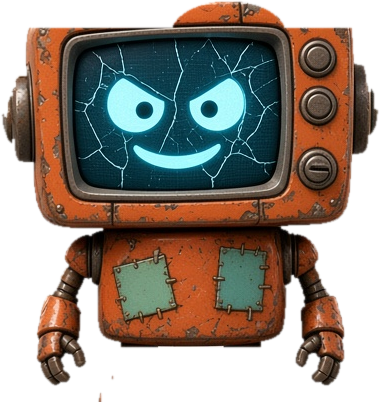
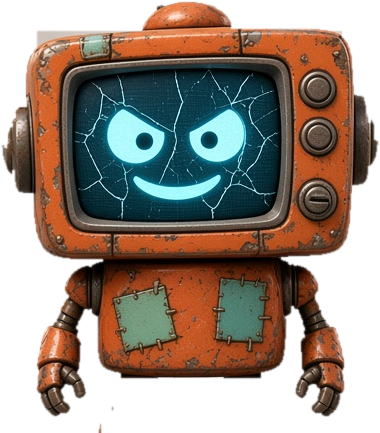
v12.5f: Jr. sprite full TV box (forehead+knob), antennas rooted on knob; classic yellow hard hat

diff --git a/js/art.js b/js/art.js
@@ -107,30 +107,36 @@ BB.pickbot=(x,base,h,swing,o={})=>{const sq=o.squash||0;
   ctx.restore();
   /* v12.5e: hard hat sits ON the bucket rim, covering the open lid; no added height */
   BB.sprite('sorter',x,base,h,{squash:sq,cut:(w,H)=>{ctx.beginPath();ctx.rect(-w*.6,-H*1.2,w*1.2,H*1.25);ctx.rect(w*.27,-H*.745,-w*.9,-H*.6);ctx.clip('evenodd')}});
-  /* hard hat: same ellipse as the rim (rim centre .562W, .26H from top; rx~.128h, ry~.018h) */
+  /* hard hat v12.5f: classic construction silhouette - rounded crown, raised centre ridge, front bill, narrow brim; glossy safety-yellow plastic, mint stripe, clip-on headlamp */
   {const W=h*273/420;ctx.save();ctx.translate(x+W*.062*(1+sq),base-h*(1-sq)*.74);ctx.scale(1+sq,1-sq);
-  const bw=h*.16,bry=h*.03,hr=h*.132,top=-h*.165,e=Math.max(1,h*.004);
-  /* contact shadow on the rim / body under the brim */
-  {const G=ctx.createRadialGradient(0,bry*.6,0,0,bry*.6,bw*1.05);G.addColorStop(0,'rgba(10,25,20,.55)');G.addColorStop(1,'rgba(10,25,20,0)');ctx.fillStyle=G;ctx.beginPath();ctx.ellipse(0,bry*.7,bw*1.05,bry*1.5,0,0,7);ctx.fill()}
-  /* brim: elliptical, darker underside lip */
-  ctx.beginPath();ctx.ellipse(0,bry*.25,bw,bry*1.05,0,0,7);ctx.fillStyle='#2f6b5c';ctx.fill();
-  ctx.beginPath();ctx.ellipse(0,0,bw,bry,0,0,7);{const G=ctx.createLinearGradient(-bw,0,bw,0);G.addColorStop(0,'#3f8a76');G.addColorStop(.35,'#bdeedd');G.addColorStop(.7,'#6fb9a2');G.addColorStop(1,'#2f6b5c');ctx.fillStyle=G}ctx.fill();ctx.strokeStyle='rgba(15,40,34,.8)';ctx.lineWidth=e;ctx.stroke();
-  /* dome shell: base follows the front half of the rim ellipse */
-  const dome=()=>{ctx.beginPath();ctx.moveTo(-hr,-h*.004);ctx.bezierCurveTo(-hr*1.02,top*.62,-hr*.62,top,0,top);ctx.bezierCurveTo(hr*.62,top,hr*1.02,top*.62,hr,-h*.004);ctx.ellipse(0,-h*.004,hr,bry*.75,0,0,Math.PI);ctx.closePath()};
-  dome();{const G=ctx.createRadialGradient(-hr*.35,top*.7,0,0,top*.35,hr*1.35);G.addColorStop(0,'#f4fffb');G.addColorStop(.28,'#a9e4d0');G.addColorStop(.7,'#5aa892');G.addColorStop(1,'#2a5f52');ctx.fillStyle=G}ctx.fill();
+  const bw=h*.152,bry=h*.026,hr=h*.128,top=-h*.165,e=Math.max(1,h*.004),ink='rgba(70,45,5,.85)';
+  const plast=(x0,y0,r)=>{const G=ctx.createRadialGradient(x0,y0,0,x0+r*.3,y0+r*.45,r*1.5);G.addColorStop(0,'#fffbe0');G.addColorStop(.22,'#ffe45a');G.addColorStop(.62,'#f2b80c');G.addColorStop(1,'#a86d00');return G};
+  /* contact shadow where the brim meets the rim */
+  {const G=ctx.createRadialGradient(0,bry*.7,0,0,bry*.7,bw*1.05);G.addColorStop(0,'rgba(10,25,20,.55)');G.addColorStop(1,'rgba(10,25,20,0)');ctx.fillStyle=G;ctx.beginPath();ctx.ellipse(0,bry*.8,bw*1.08,bry*1.6,0,0,7);ctx.fill()}
+  /* narrow brim all round + front bill (pushed toward the viewer) */
+  const brim=()=>{ctx.beginPath();ctx.ellipse(0,0,bw,bry,0,Math.PI,0);ctx.bezierCurveTo(bw,bry*1.2,bw*.6,bry*2.6,0,bry*2.7);ctx.bezierCurveTo(-bw*.6,bry*2.6,-bw,bry*1.2,-bw,0);ctx.closePath()};
+  ctx.save();ctx.translate(0,bry*.35);brim();ctx.fillStyle='#8a5a00';ctx.fill();ctx.restore();
+  brim();{const G=ctx.createLinearGradient(-bw,0,bw,0);G.addColorStop(0,'#c98d00');G.addColorStop(.33,'#fff1a0');G.addColorStop(.6,'#f6c51e');G.addColorStop(1,'#a06600');ctx.fillStyle=G}ctx.fill();ctx.strokeStyle=ink;ctx.lineWidth=e;ctx.stroke();
+  ctx.fillStyle='rgba(255,255,255,.55)';ctx.beginPath();ctx.ellipse(-bw*.25,bry*1.7,bw*.3,bry*.28,-.08,0,7);ctx.fill();
+  /* crown */
+  const dome=()=>{ctx.beginPath();ctx.moveTo(-hr,bry*.3);ctx.bezierCurveTo(-hr*1.03,top*.6,-hr*.6,top,0,top);ctx.bezierCurveTo(hr*.6,top,hr*1.03,top*.6,hr,bry*.3);ctx.ellipse(0,bry*.3,hr,bry*1.1,0,0,Math.PI);ctx.closePath()};
+  dome();ctx.fillStyle=plast(-hr*.4,top*.72,hr);ctx.fill();
   ctx.save();dome();ctx.clip();
-  ctx.fillStyle='rgba(255,255,255,.7)';ctx.beginPath();ctx.ellipse(-hr*.42,top*.66,hr*.2,-top*.09,-.6,0,7);ctx.fill();
-  ctx.strokeStyle='rgba(170,240,255,.55)';ctx.lineWidth=h*.008;ctx.beginPath();ctx.moveTo(hr*.97,-h*.01);ctx.bezierCurveTo(hr*.98,top*.6,hr*.6,top*.98,hr*.1,top*.99);ctx.stroke();
-  {const G=ctx.createLinearGradient(0,top*.25,0,bry);G.addColorStop(0,'rgba(0,0,0,0)');G.addColorStop(1,'rgba(10,30,25,.4)');ctx.fillStyle=G;ctx.fillRect(-hr,top*.25,hr*2,-top*.25+bry)}
-  /* side ribs following the dome curvature */
-  ctx.strokeStyle='rgba(20,60,50,.35)';ctx.lineWidth=h*.006;for(const k of[-.55,.55]){ctx.beginPath();ctx.moveTo(hr*k*1.05,bry*.5);ctx.quadraticCurveTo(hr*k*1.1,top*.8,hr*k*.35,top*.97);ctx.stroke()}
-  ctx.restore();dome();ctx.strokeStyle='rgba(15,40,34,.85)';ctx.lineWidth=e;ctx.stroke();
-  /* chrome centre ridge running front-to-back */
-  ctx.beginPath();ctx.moveTo(-hr*.1,bry*.55);ctx.quadraticCurveTo(-hr*.12,top*.95,0,top*1.03);ctx.quadraticCurveTo(hr*.12,top*.95,hr*.1,bry*.55);ctx.closePath();ctx.fillStyle=chromeX(-hr*.1,hr*.1);ctx.fill();ctx.strokeStyle='rgba(15,40,34,.8)';ctx.stroke();
-  for(const rx of[-hr*.62,hr*.62]){const r=Math.max(1.5,h*.009),cy=-h*.035,G=ctx.createRadialGradient(rx-r*.4,cy-r*.4,0,rx,cy,r);G.addColorStop(0,'#fff');G.addColorStop(.5,'#9aa5ad');G.addColorStop(1,'#2e3439');ctx.fillStyle=G;ctx.beginPath();ctx.arc(rx,cy,r,0,7);ctx.fill()}
-  /* lamp on the front-right */
-  {const lx=hr*.42,ly=top*.42,R=h*.027;BB.glow(lx,ly,h*.22,'rgba(255,240,170,A)',.25);ctx.fillStyle='rgba(0,0,0,.35)';ctx.beginPath();ctx.arc(lx+R*.15,ly+R*.2,R*1.05,0,7);ctx.fill();
-   ctx.fillStyle=chromeX(lx-R,lx+R);ctx.beginPath();ctx.arc(lx,ly,R,0,7);ctx.fill();ctx.strokeStyle='rgba(15,40,34,.85)';ctx.lineWidth=e;ctx.stroke();
+  /* mint stripe band around the crown base */
+  ctx.fillStyle='#5fb59c';ctx.beginPath();ctx.ellipse(0,bry*.1,hr*1.05,bry*1.25,0,0,7);ctx.ellipse(0,-h*.006-bry*.1,hr*1.05,bry*1.25,0,0,7,true);ctx.fill();
+  ctx.fillStyle='#5fb59c';ctx.fillRect(-hr*1.1,-h*.03,hr*2.2,h*.02);
+  ctx.fillStyle='rgba(255,255,255,.35)';ctx.fillRect(-hr*1.1,-h*.03,hr*2.2,h*.004);
+  ctx.fillStyle='rgba(255,255,255,.75)';ctx.beginPath();ctx.ellipse(-hr*.45,top*.68,hr*.2,-top*.1,-.6,0,7);ctx.fill();
+  ctx.strokeStyle='rgba(255,250,210,.6)';ctx.lineWidth=h*.007;ctx.beginPath();ctx.moveTo(hr*.97,-h*.012);ctx.bezierCurveTo(hr*.98,top*.6,hr*.6,top*.98,hr*.15,top*.99);ctx.stroke();
+  {const G=ctx.createLinearGradient(0,top*.3,0,bry*1.4);G.addColorStop(0,'rgba(0,0,0,0)');G.addColorStop(1,'rgba(90,50,0,.35)');ctx.fillStyle=G;ctx.fillRect(-hr*1.1,top*.3,hr*2.2,-top*.3+bry*1.5)}
+  ctx.restore();dome();ctx.strokeStyle=ink;ctx.lineWidth=e;ctx.stroke();
+  /* raised centre ridge front-to-back (molded, same plastic) */
+  ctx.beginPath();ctx.moveTo(-hr*.13,bry*1.2);ctx.quadraticCurveTo(-hr*.16,top*.9,0,top*1.035);ctx.quadraticCurveTo(hr*.16,top*.9,hr*.13,bry*1.2);ctx.closePath();
+  {const G=ctx.createLinearGradient(-hr*.15,0,hr*.15,0);G.addColorStop(0,'#c98d00');G.addColorStop(.35,'#fff6c0');G.addColorStop(.7,'#f0b60a');G.addColorStop(1,'#9a6200');ctx.fillStyle=G}ctx.fill();ctx.strokeStyle=ink;ctx.stroke();
+  /* clip-on headlamp at the front */
+  {const lx=-hr*.42,ly=top*.32,R=h*.026;ctx.fillStyle='#2e3439';ctx.fillRect(lx-R*.5,ly+R*.6,R,h*.02);
+   BB.glow(lx,ly,h*.2,'rgba(255,240,170,A)',.25);ctx.fillStyle='rgba(0,0,0,.35)';ctx.beginPath();ctx.arc(lx+R*.15,ly+R*.2,R*1.05,0,7);ctx.fill();
+   ctx.fillStyle=chromeX(lx-R,lx+R);ctx.beginPath();ctx.arc(lx,ly,R,0,7);ctx.fill();ctx.strokeStyle=ink;ctx.lineWidth=e;ctx.stroke();
    const G=ctx.createRadialGradient(lx-R*.2,ly-R*.2,0,lx,ly,R*.65);G.addColorStop(0,'#fff');G.addColorStop(.5,'#fff3b8');G.addColorStop(1,'#e0b84a');ctx.fillStyle=G;ctx.beginPath();ctx.arc(lx,ly,R*.65,0,7);ctx.fill();
    ctx.fillStyle='rgba(255,255,255,.9)';ctx.beginPath();ctx.ellipse(lx-R*.25,ly-R*.3,R*.22,R*.1,-.6,0,7);ctx.fill()}
   ctx.restore()}};
@@ -220,7 +226,7 @@ function jrCanvas(h){const key=Math.round(h);if(jrC[key])return jrC[key];const S
 /* v12.5d: option A render cut into a clean sprite (head+torso+arms); legs/boots/antennas stay procedural for the gait. ?jr=code forces the code-drawn body */
 const jrSp={};function jrSprite(h){const I=IMG.jr_a;if(!I||/jr=code/.test(location.search))return null;const k=Math.round(h);if(jrSp[k])return jrSp[k];
   const S=2,H=Math.round(h*S),W=Math.round(H*I.width/I.height),P=2,c=document.createElement('canvas');c.width=W+P*2;c.height=H+P*2;const g=c.getContext('2d');g.imageSmoothingQuality='high';g.drawImage(I,P,P,W,H);return jrSp[k]={c,w:W/S,h:H/S,pad:P/S,sprite:1}}
-BB.staticJr=(x,base,h,o={})=>{const J=jrSprite(h*1.2)||jrCanvas(h),im=J.c;if(J.sprite)h=J.h;const SPR=!!J.sprite;const t=BB.t,w=J.w,legH=SPR?h*.21:h*.3,run=o.run||0;
+BB.staticJr=(x,base,h,o={})=>{const J=jrSprite(h*1.2925)||jrCanvas(h),im=J.c;if(J.sprite)h=J.h;const SPR=!!J.sprite;const t=BB.t,w=J.w,legH=SPR?h*.195:h*.3,run=o.run||0;
   ctx.save();ctx.translate(x,base);
   const lift=o.lift||0;if(!o.noShadow){const k=1/(1+lift/60);ctx.fillStyle=`rgba(0,0,0,${.28*k})`;ctx.beginPath();ctx.ellipse(0,lift,w*.4*k,10*k,0,0,7);ctx.fill()}
   ctx.rotate(o.rot||0);if(o.flip)ctx.scale(-1,1);
@@ -232,17 +238,17 @@ BB.staticJr=(x,base,h,o={})=>{const J=jrSprite(h*1.2)||jrCanvas(h),im=J.c;if(J.s
     const hx=w*lx*.8,ax=fx,ay=fy-h*.06,dx=ax-hx,dy=ay-hipY,d=Math.hypot(dx,dy),bend=Math.sqrt(Math.max(0,LL*LL-d*d/4));
     const kx=(hx+ax)/2+(-dy/d)*bend*-1,ky=(hipY+ay)/2+(dx/d)*bend*-1;
     const sa=o.noShadow||lift?0:Math.max(0,1+fy/(h*.15));if(sa)ctx.fillStyle=`rgba(0,0,0,${.25*sa})`;if(sa){ctx.beginPath();ctx.ellipse(fx+h*.03,0,h*.1*(.6+.4*sa),h*.025,0,0,7);ctx.fill()}
-    ctx.strokeStyle='#2a2d33';ctx.lineWidth=Math.max(6,h*(SPR?.075:.08));ctx.lineCap='round';ctx.lineJoin='round';ctx.beginPath();ctx.moveTo(hx,hipY);ctx.lineTo(kx,ky);ctx.lineTo(ax,ay);ctx.stroke();
+    ctx.strokeStyle='#2a2d33';ctx.lineWidth=Math.max(6,h*(SPR?.07:.08));ctx.lineCap='round';ctx.lineJoin='round';ctx.beginPath();ctx.moveTo(hx,hipY);ctx.lineTo(kx,ky);ctx.lineTo(ax,ay);ctx.stroke();
     ctx.strokeStyle='#6a7279';ctx.lineWidth=Math.max(3,h*.05);ctx.stroke();ctx.save();ctx.translate(-h*.012,-h*.006);ctx.strokeStyle='rgba(225,232,238,.75)';ctx.lineWidth=Math.max(1.2,h*.014);ctx.stroke();ctx.restore();
     {const kr=Math.max(3,h*.042);const G=ctx.createRadialGradient(kx-kr*.4,ky-kr*.4,0,kx,ky,kr);G.addColorStop(0,'#eef2f4');G.addColorStop(.5,'#8e979e');G.addColorStop(1,'#33373c');ctx.fillStyle=G;ctx.beginPath();ctx.arc(kx,ky,kr,0,7);ctx.fill();ctx.strokeStyle='rgba(15,15,20,.7)';ctx.lineWidth=1.5;ctx.stroke()}
     const tilt=fy<0?-.25*run:0;ctx.save();ctx.translate(fx+h*.03,fy-h*.06);ctx.rotate(tilt);
     ctx.fillStyle='#2e1a0e';ctx.beginPath();ctx.roundRect(-h*.11,h*.02,h*.22,h*.04,h*.015);ctx.fill();
     {const G=ctx.createRadialGradient(-h*.04,-h*.04,0,0,0,h*.13);G.addColorStop(0,'#ffb47a');G.addColorStop(.45,'#c4602a');G.addColorStop(1,'#5e250b');ctx.fillStyle=G}ctx.strokeStyle='rgba(45,18,6,.85)';ctx.lineWidth=2;ctx.beginPath();ctx.ellipse(0,-h*.005,h*.11,h*.06,0,Math.PI,0);ctx.lineTo(h*.11,h*.025);ctx.lineTo(-h*.11,h*.025);ctx.closePath();ctx.fill();ctx.stroke();
     ctx.fillStyle='rgba(70,40,30,.7)';ctx.beginPath();ctx.arc(h*.04,-h*.02,h*.018,0,7);ctx.arc(-h*.06,h*.0,h*.012,0,7);ctx.fill();ctx.fillStyle='rgba(255,230,200,.55)';ctx.beginPath();ctx.ellipse(-h*.035,-h*.042,h*.04,h*.012,-.2,0,7);ctx.fill();ctx.restore()}
-  const by=-legH-h,sq=o.squash||0;ctx.translate(0,hipY+(SPR?h*.135:0));ctx.scale(1+sq,1-sq);
+  const by=-legH-h,sq=o.squash||0;ctx.translate(0,hipY+(SPR?h*.125:0));ctx.scale(1+sq,1-sq);
   {// v12.4 Jr rabbit-ear antennas with sparks
-    const lq=BB.q===0;for(const s of[-1,1]){const a=s*(.45+Math.sin(t*2+s)*.08),L=h*.5,bx=J.sprite?w*(.09+s*.09):s*w*.12,tx=bx+Math.sin(a)*L,ty=-h-Math.cos(a)*L;
-      ctx.strokeStyle='#3a3e44';ctx.lineWidth=Math.max(3,h*.028);ctx.lineCap='round';ctx.beginPath();ctx.moveTo(bx,-h*(J.sprite?.96:.9));ctx.lineTo(tx,ty);ctx.stroke();ctx.strokeStyle='rgba(220,226,232,.7)';ctx.lineWidth=Math.max(1,h*.009);ctx.beginPath();ctx.moveTo(bx-h*.006,-h*.9);ctx.lineTo(tx-h*.006,ty);ctx.stroke();
+    const lq=BB.q===0;for(const s of[-1,1]){const a=s*(.45+Math.sin(t*2+s)*.08),L=h*.5,bx=J.sprite?w*(-.013+s*.075):s*w*.12,tx=bx+Math.sin(a)*L,ty=-h-Math.cos(a)*L;
+      ctx.strokeStyle='#3a3e44';ctx.lineWidth=Math.max(3,h*.028);ctx.lineCap='round';ctx.beginPath();ctx.moveTo(bx,-h*(J.sprite?.975:.9));ctx.lineTo(tx,ty);ctx.stroke();ctx.strokeStyle='rgba(220,226,232,.7)';ctx.lineWidth=Math.max(1,h*.009);ctx.beginPath();ctx.moveTo(bx-h*.006,-h*(J.sprite?.975:.9));ctx.lineTo(tx-h*.006,ty);ctx.stroke();
       {const mx=bx+(tx-bx)*.45,my=-h*.9+(ty+h*.9)*.45,r=Math.max(2,h*.02);ctx.fillStyle='#8e979e';ctx.beginPath();ctx.arc(mx,my,r,0,7);ctx.fill();ctx.fillStyle='rgba(255,255,255,.7)';ctx.beginPath();ctx.arc(mx-r*.3,my-r*.3,r*.4,0,7);ctx.fill()}
       const sp=Math.sin(t*7+s*2)>.55;if(sp)BB.glow(tx,ty,h*.25,'rgba(140,220,255,A)',.6);
       {const r=h*.045,G=ctx.createRadialGradient(tx-r*.4,ty-r*.4,0,tx,ty,r);G.addColorStop(0,sp?'#ffffff':'#e9eef1');G.addColorStop(.5,sp?'#bff0ff':'#8e979e');G.addColorStop(1,sp?'#4fb6cc':'#33373c');ctx.fillStyle=G;ctx.strokeStyle='rgba(15,15,20,.7)';ctx.lineWidth=1.5;ctx.beginPath();ctx.arc(tx,ty,r,0,7);ctx.fill();ctx.stroke()}
